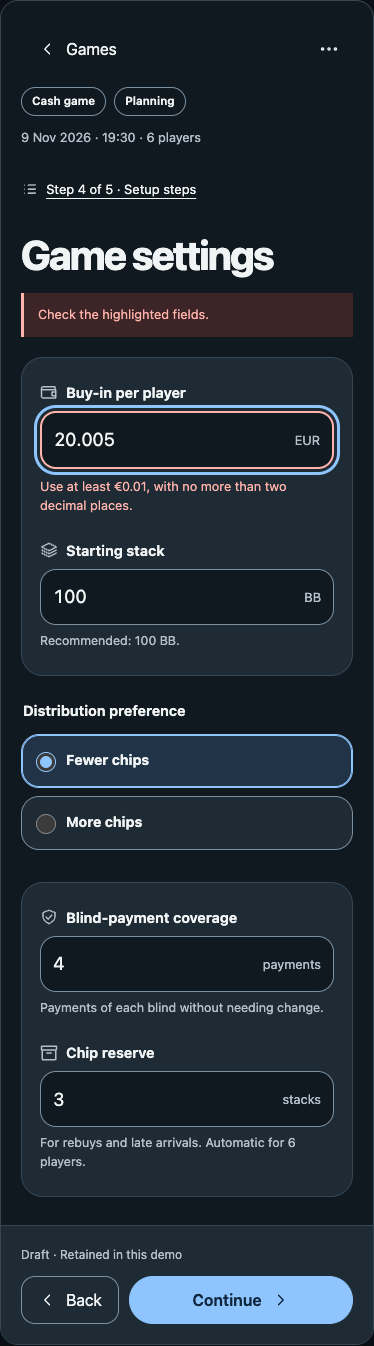
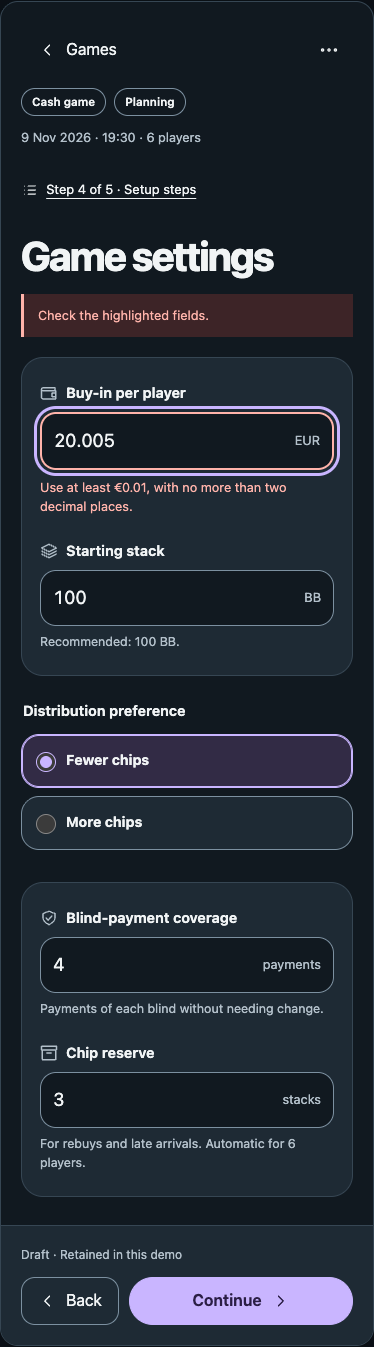
Record approved Lavender planning prototype

diff --git a/docs/prototypes/cash-game-planning/index.html b/docs/prototypes/cash-game-planning/index.html
@@ -5,7 +5,7 @@
 <title>Cash-game planning · interactive prototype</title>
 <style>
   * { box-sizing: border-box; }
-  :root { --accent: #8ec5ff; --on-accent: #10263d; --tint: #203347; color-scheme: dark; font-family: -apple-system, BlinkMacSystemFont, "Segoe UI", sans-serif; background: #0b1117; color: #f1f4f5; }
+  :root { --accent: #c9b5ff; --on-accent: #2b1e45; --tint: #322b45; color-scheme: dark; font-family: -apple-system, BlinkMacSystemFont, "Segoe UI", sans-serif; background: #0b1117; color: #f1f4f5; }
   body { margin: 0; padding: 28px 16px 140px; }
   button, input, select { font: inherit; }
   button, summary, label.choice { -webkit-tap-highlight-color: transparent; }
@@ -141,9 +141,9 @@
 </style>
 <div class="workshop">
   <header>
-    <p class="eyebrow">Throwaway interaction study · Current</p>
+    <p class="eyebrow">Approved interaction study · Current / Lavender</p>
     <h1>From a new game to a ready-to-review plan.</h1>
-    <p class="intro">Try the flow and compare accent colors in the bottom bar. Tell me your preferred color and any feedback in chat; nothing is submitted from this page.</p>
+    <p class="intro">The revised flow and Lavender accent are approved. This throwaway archive retains the other colors for reference. All feedback stays in chat; nothing is submitted from this page.</p>
     <details class="review">
       <summary>Review controls &amp; guided walkthroughs</summary>
       <p>All state stays in this page’s memory. Reload resets the demo. “Simulate restart” exercises a proposed resume interaction, not real storage. Chip editing, payout setup and distribution are labelled handoff screens.</p>
@@ -345,8 +345,8 @@ const palettes = {
   coral: {name: 'Coral', accent: '#ffb39c', ink: '#3b2119', tint: '#422f2a'},
   citron: {name: 'Original citron', accent: '#daf587', ink: '#1e2910', tint: '#2c3823'}
 };
-let accent = new URL(location.href).searchParams.get('variant') || 'blue';
-if (!Object.hasOwn(palettes, accent)) accent = 'blue';
+let accent = new URL(location.href).searchParams.get('variant') || 'lavender';
+if (!Object.hasOwn(palettes, accent)) accent = 'lavender';
 const app = document.getElementById('app'), dialog = document.getElementById('dialog');
 const titles = {mode: 'Choose mode', players: 'Players', chips: 'Chip set', settings: 'Game settings', payout: 'Payout schedule', preview: 'Distribution preview'};
 const esc = v => String(v ?? '').replace(/[&<>"']/g, c => ({'&':'&amp;', '<':'&lt;', '>':'&gt;', '"':'&quot;', "'":'&#39;'}[c]));
@@ -502,7 +502,7 @@ function render() {
 }
 function requestModal(modal) { dispatch({type:'MODAL',modal}); }
 function applyAccent(key, updateUrl = true) {
-  accent = Object.hasOwn(palettes,key) ? key : 'blue';
+  accent = Object.hasOwn(palettes,key) ? key : 'lavender';
   const palette=palettes[accent];
   document.documentElement.style.setProperty('--accent',palette.accent);
   document.documentElement.style.setProperty('--on-accent',palette.ink);

diff --git a/docs/prototypes/cash-game-planning/README.md b/docs/prototypes/cash-game-planning/README.md
@@ -1,10 +1,10 @@
 # Cash-game planning — throwaway interaction prototype
 
-**Status: live-discussion choices incorporated; interactive review and final approval pending.**
+**Approved: the revised Planning flow and Lavender accent.** The human approved the updated prototype with “yeah fine and i like the lavender color.”
 
 Decision: [Design cash-game planning and reusable player selection](https://github.com/quirinbrandl/poker-planner/issues/33). Parent map: [MVP user experience and visual design](https://github.com/quirinbrandl/poker-planner/issues/30).
 
-This single HTML file explores the Planning workflow in **Current's always-dark slate foundation**. Following live feedback, this revision adds a single prefilled reserve field, shorter copy, functional icons, direct return from preview-originated corrections, and an accent-color comparison. The human requested different accent options; no replacement color has been approved yet.
+This single HTML file captures the approved Planning workflow in **Current's always-dark slate foundation with Lavender**. The human approved the single prefilled reserve field, shorter copy, functional icons and direct return from preview-originated corrections, then selected Lavender after comparing the accent options. The decision and implementation handoff live on the linked issue and its affected implementation tickets.
 
 Everything in this directory is throwaway, including the in-memory state model. Do not promote it into the application. It selects no framework, storage approach or production module interface.
 
@@ -20,7 +20,7 @@ python3 -m http.server 4174 --bind 127.0.0.1 --directory docs/prototypes/cash-ga
 
 Open <http://localhost:4174>. All changes are in memory; reloading resets the fixtures. “Simulate restart” only demonstrates the resume contract in memory. It does **not** verify durable local persistence. Inspect the readable state panel to see current raw values and independent saved/captured names.
 
-For the updated settings and accent comparison, open <http://localhost:4174/?screen=settings&variant=blue>. The floating **Accent preview** bar offers Blue, Mint, Lavender, Coral, and Original citron as a reference. Its arrows cycle with wraparound; the dropdown names every option. The URL preserves the selected color. Left/right keyboard shortcuts leave text fields, radios/checkboxes, selects, tab navigation and dialogs alone. Colors change without resetting draft values or navigation. This is an external review control, not a proposed product appearance setting. Feedback is given in chat, not submitted from the page.
+For the selected settings screen, open <http://localhost:4174/?screen=settings&variant=lavender>. Opening without a variant also defaults to Lavender. The floating **Accent preview** bar retains Blue, Mint, Lavender, Coral, and Original citron for archival comparison. Its arrows cycle with wraparound; the dropdown names every option. The URL preserves the selected color. Left/right keyboard shortcuts leave text fields, radios/checkboxes, selects, tab navigation and dialogs alone. Colors change without resetting draft values or navigation. This is an external review control, not a product appearance setting. Feedback is given in chat, not submitted from the page.
 
 ## Review
 
@@ -48,9 +48,9 @@ For the updated settings and accent comparison, open <http://localhost:4174/?scr
 - Restart recovery of unfinished **reusable-player editor text** was declined for now. Explicit Save/discard semantics remain; this exception does not weaken retention of raw Planning fields.
 - Following hands-on review, the host requested less explanation for self-explanatory controls and more symbols. The revision uses consistent inline stroke icons: labelled primary/navigation actions and fields, plus accessible icon-only row edit/remove/delete controls with named confirmations. Short helper text remains for blind-payment coverage, reserve semantics, the 100-BB recommendation and the independence of saved/game names where editing occurs. Errors, required units, save boundaries and prototype handoff labels remain explicit.
 
-## Concrete interaction proposals to judge in the prototype
+## Approved concrete interaction treatment
 
-These details make the flow clickable and remain subject to the live prototype review:
+The final approval covers the revised prototype's interaction treatment:
 
 - Picker selections are staged until Add. An already-added saved player is marked unavailable, even if that saved entry has since been renamed. A collision rejects the entire addition without partially creating records.
 - The picker has ordinary **Edit saved player** controls. These edit reusable entries, never game-captured names. Collision errors do not automatically rename, navigate or add a special recovery workflow.
@@ -58,7 +58,7 @@ These details make the flow clickable and remain subject to the live prototype r
 - Planning roster removal uses a specific confirmation and leaves the reusable player intact. Saved-player/game deletion also names its scope and has Cancel. The fixture reset is an external review tool, not a product undo feature.
 - The step list allows reached steps, preserving the guided first pass. “Complete” describes local input validity, not allocation feasibility or game start. The preview marks earlier edits for renewed review.
 - A preview-originated correction validates its current step before returning and rechecks the whole plan. If switching mode introduces a missing payout step, the preview exposes its correction route even if that step was not previously reached. Back still moves to the preceding setup step; no navigation accepts a distribution or starts a game.
-- The single reserve field replaces the earlier Automatic / Custom selector. The small **Use automatic (N)** reset action and brief automatic/custom status are proposed details of the requested input treatment, retaining the established reserve rules.
+- The single reserve field replaces the earlier Automatic / Custom selector. The small **Use automatic (N)** reset action and brief automatic/custom status retain the established reserve rules.
 - Valid saved names are trimmed at explicit Save while preserving their capitalization. Blank/whitespace-only names are invalid. No arbitrary player/name/count cap is proposed.
 - Money entry supports ungrouped digits with up to two decimal digits after a dot or comma. Grouping separators, scientific notation and currency symbols pasted into the field produce retained invalid input. Canonical production money parsing must use exact cents; this fixture-only UI is not financial calculation code.
 
@@ -70,15 +70,15 @@ The **Distribution preview** is a clearly labelled input-review handoff, with wh
 
 Tournament payouts are a retained `50 / 30 / 20` fixture for exercising mode switching. Their editor and validation belong to [Design tournament payout setup and starting](https://github.com/quirinbrandl/poker-planner/issues/39). The shared two-player and positive-buy-in validation already applies to that mode; no tournament implementation is introduced here.
 
-## Accent options
+## Selected accent and archived alternatives
 
-These are deliberately color comparisons of the same revised layout, as requested by the human. The base slate surfaces and hierarchy stay consistent so the accents can be compared directly. The original citron is retained only as a reference; Blue is the initial review option, not an approved winner.
+**Lavender is selected for the shared MVP visual foundation.** It replaces the original citron accent while retaining Current's slate surfaces, hierarchy and always-dark appearance. These archived alternatives use the same layout so the original comparison remains reproducible. No in-app color selector is part of the MVP.
 
 | URL variant | Accent | Text on primary | Selected surface |
 | --- | --- | --- | --- |
 | [`blue`](previews/settings-blue.png) | `#8EC5FF` | `#10263D` | `#203347` |
 | [`mint`](previews/settings-mint.png) | `#7EE0C3` | `#103126` | `#203B34` |
-| [`lavender`](previews/settings-lavender.png) | `#C9B5FF` | `#2B1E45` | `#322B45` |
+| **[`lavender` — selected](previews/settings-lavender.png)** | `#C9B5FF` | `#2B1E45` | `#322B45` |
 | [`coral`](previews/settings-coral.png) | `#FFB39C` | `#3B2119` | `#422F2A` |
 | [`citron`](previews/settings-citron.png) | `#DAF587` | `#1E2910` | `#2C3823` |
 
@@ -97,7 +97,7 @@ No browser exceptions occurred in these revised checks. Across eight checked sem
 
 At a **320px viewport / 200% app text**, the original revision's Games/settings/step-list/Players/picker/name-editor/error screens had no measured horizontal overflow. The revised settings and color bar were checked in all five palettes, plus invalid reserve, preview, correction footer, removal dialog, picker and saved-name editor; all also had no horizontal overflow. Native text scaling, keyboards, VoiceOver/TalkBack and actual restart persistence remain implementation-time checks.
 
-Captures use a 390px browser viewport, with the app surface isolated from the external review controls:
+The selected captures use Lavender and a 390px browser viewport, with the app surface isolated from the external review controls:
 
 - [Games](previews/games.png)
 - [All-visible game settings](previews/settings.png)
